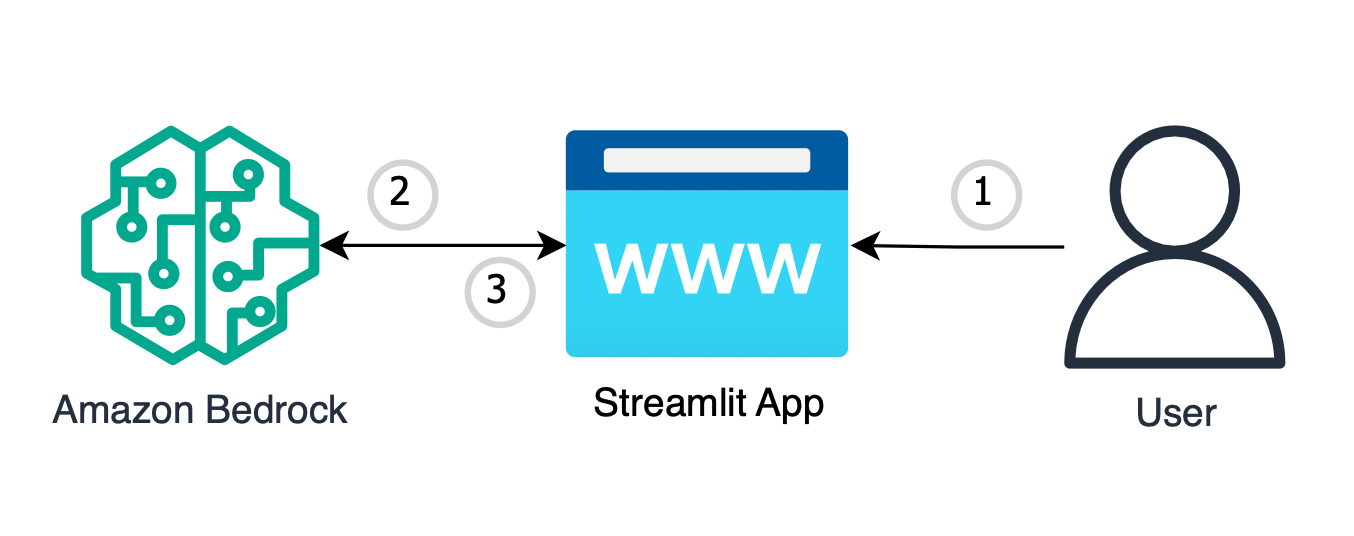
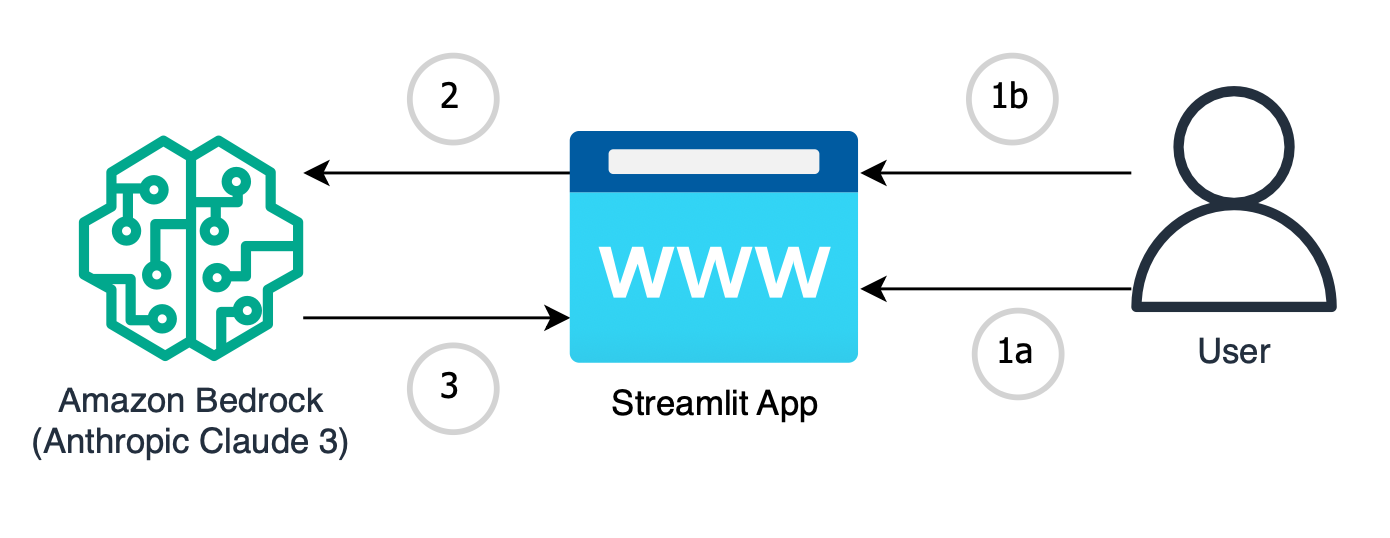
migrate image analysis to boto3 from langchain

diff --git a/amazon-bedrock-claude3-image-analysis-poc/app.py b/amazon-bedrock-claude3-image-analysis-poc/app.py
@@ -1,39 +1,51 @@
 import streamlit as st
 from pathlib import Path
 import os
-import image_analysis as helper
-import time
+from dotenv import load_dotenv
+from analyze_images import analyze_image
 
-save_folder="./images"
-
+# load environment variables
+load_dotenv()
 # title of the streamlit app
-st.title(f""":rainbow[Image Analysis with Amazon Bedrock]""")
+st.title(f""":rainbow[Image Analysis with Amazon Bedrock and Anthropic Claude 3]""")
+# directions on what can be done with this streamlit app
+st.header(f"""Directions to use this application:
+1. Upload an image, and click the "Analyze Image" button.
+2. Optionally, input a JSON spec to control image analysis prompt and return to specific attributes
 
-# default container that houses the document upload field
+""", divider='rainbow')
+# default container that houses the image upload field
 with st.container():
     # header that is shown on the web UI
-    st.header('Single File Upload')
-    # the file upload field, the specific ui element that allows you to upload the file
-    File = st.file_uploader('Upload a file', type=["jpeg"], key="new")
-    # when a file is uploaded it saves the file to the directory, creates a path, and invokes the
-    # analyze image function
-    if File is not None:
-        # determine the path to temporarily save the PDF file that was uploaded
-        #save_folder = os.getenv("save_folder")
-        save_folder = save_folder
-        # create a posix path of save_folder and the file name
-        save_path = Path(save_folder, File.name)
-        # write the uploaded PDF to the save_folder you specified
-        with open(save_path, mode='wb') as w:
-            w.write(File.getvalue())
-        # once the save path exists...
-        if save_path.exists():
-            # write a success message saying the file has been successfully saved
-            st.success(f'File {File.name} is successfully saved!')
-            st.balloons()
-            # creates a timer to time the length of the  task and starts the timer
-            #start = time.time()
-            # running the task, and outputting the results to the front end
-            st.write(helper.analyze_image(save_path))
-            # removing the image that was temporarily saved to perform the  task
-            os.remove(save_path)
+    st.subheader('Image File Upload:')
+    # the image upload field, the specific ui element that allows you to upload an image
+    # when an image is uploaded it saves the file to the directory, and creates a path to that image
+    File = st.file_uploader('Upload an Image', type=["png", "jpg", "jpeg"], key="new")
+    # this is the text area that allows you to insert a custom JSON spec to control image analysis
+    JSON_format = st.text_area("(optional)Insert your custom JSON spec to control image analysis")
+    # this is the text that is shown on the front end, and is used as a default prompt
+    text = f"Analyze this image in extreme detail. Please return a JSON response with the most relevant details of the image. If present, use this example JSON to categorize the image{JSON_format}"
+    # this is the button that triggers the invocation of the model, processing of the image and/or question
+    result = st.button("Analyze Image")
+    # if the button is pressed, the model is invoked, and the results are output to the front end
+    if result:
+        # if an image is uploaded, a file will be present, triggering the image_to_text function
+        if File is not None:
+            # the image is displayed to the front end for the user to see
+            st.image(File)
+            # determine the path to temporarily save the image file that was uploaded
+            save_folder = "./images"
+            # create a posix path of save_folder and the file name
+            save_path = Path(save_folder, File.name)
+            # write the uploaded image file to the save_folder you specified
+            with open(save_path, mode='wb') as w:
+                w.write(File.getvalue())
+            # once the save path exists...
+            if save_path.exists():
+                # write a success message saying the image has been successfully saved
+                st.success(f'Image {File.name} is successfully saved!')
+                # running the image to text task, and outputting the results to the front end
+                st.write(analyze_image(save_path, text))
+                # removing the image file that was temporarily saved to perform the question and answer task
+                os.remove(save_path)
+

diff --git a/amazon-bedrock-claude3-image-analysis-poc/analyze_images.py b/amazon-bedrock-claude3-image-analysis-poc/analyze_images.py
@@ -1,0 +1,96 @@
+import boto3
+import json
+from dotenv import load_dotenv
+import os
+import base64
+import io
+from PIL import Image
+
+# loading in variables from .env file
+load_dotenv()
+
+# instantiating the Bedrock client, and passing in the CLI profile
+boto3.setup_default_session(profile_name=os.getenv("profile_name"))
+bedrock = boto3.client('bedrock-runtime', 'us-west-2', endpoint_url='https://bedrock-runtime.us-west-2.amazonaws.com')
+
+
+def image_base64_encoder(image_name):
+    """
+    This function takes in a string that represent the path to the image that has been uploaded by the user and the function
+    is used to encode the image to base64. The base64 string is then returned.
+    :param image_name: This is the path to the image file that the user has uploaded.
+    :return: A base64 string of the image that was uploaded.
+    """
+    # opening the image file that was uploaded by the user
+    open_image = Image.open(image_name)
+    # creating a BytesIO object to store the image in memory
+    image_bytes = io.BytesIO()
+    # saving the image to the BytesIO object
+    open_image.save(image_bytes, format=open_image.format)
+    # converting the BytesIO object to a base64 string and returning it
+    image_bytes = image_bytes.getvalue()
+    image_base64 = base64.b64encode(image_bytes).decode('utf-8')
+    # getting the appropriate file type as claude 3 expects the file type to be presented
+    file_type = f"image/{open_image.format.lower()}"
+    # returning both the formatted file type string, along with the base64 encoded image
+    return file_type, image_base64
+
+
+def analyze_image(image_name, text) -> str:
+    """
+    This function is used to perform an image to text llm invocation against Claude 3. The prompts are configured so that a JSON object is returned by default.
+    :param image_name: This is the path to the image file that the user has uploaded.
+    :param text: This is the example JSON the user may have optionally provided
+    :return: A JSON response giving a detailed analysis of the image that was uploaded or answering a specific
+    question that the user asked along with the image.
+    """
+    # invoking the image_base64_encoder function to encode the image to base64 and get the file type string
+    file_type, image_base64 = image_base64_encoder(image_name)
+    # the system prompt is used as a default prompt, and is always passed into to the model
+    # TODO: Edit the system prompt based on your specific use case
+    system_prompt = """Describe every detail you can about this image, be extremely thorough and detail even the most minute aspects of the image. 
+    
+    If a more specific question is presented by the user, make sure to prioritize that answer.
+    """
+    # checking if the user inserted any text along with the image, if not, we set text to a default since claude expects
+    # text in the text block of the prompt.
+    if text == "":
+        text = "Use the system prompt"
+    # this is the primary prompt passed into Claude3 with the system prompt, user uploaded image in base64 and any
+    # text the user inserted
+    prompt = {
+        "anthropic_version": "bedrock-2023-05-31",
+        "max_tokens": 1000,
+        "temperature": 0.5,
+        "system": system_prompt,
+        "messages": [
+            {
+                "role": "user",
+                "content": [
+                    {
+                        "type": "image",
+                        "source": {
+                            "type": "base64",
+                            "media_type": file_type,
+                            "data": image_base64
+                        }
+                    },
+                    {
+                        "type": "text",
+                        "text": text
+                    }
+                ]
+            }
+        ]
+    }
+    # formatting the prompt as a json string
+    json_prompt = json.dumps(prompt)
+    # invoking Claude3, passing in our prompt
+    response = bedrock.invoke_model(body=json_prompt, modelId="anthropic.claude-3-sonnet-20240229-v1:0",
+                                    accept="application/json", contentType="application/json")
+    # getting the response from Claude3 and parsing it to return to the end user
+    response_body = json.loads(response.get('body').read())
+    # the final string returned to the end user
+    llm_output = response_body['content'][0]['text']
+    # returning the final string to the end user
+    return json.loads(llm_output)

diff --git a/amazon-bedrock-claude3-image-analysis-poc/README.md b/amazon-bedrock-claude3-image-analysis-poc/README.md
@@ -1,6 +1,6 @@
 # Amazon-Bedrock-Image-Analysis-POC
 
-This is sample code demonstrating the use of Amazon Bedrock and Multi-Modal Generative AI models from Anthropic to implement an image analysis use case. The application is constructed with a simple streamlit frontend where users can upload a jpeg, and get a description of the image.
+This is sample code demonstrating the use of Amazon Bedrock and Multi-Modal Generative AI models from Anthropic to implement an image analysis use case. The application is constructed with a simple streamlit frontend where users can upload a 1 page jpeg, png or PDF and get a description of the image.
 
 ![Alt text](images/demo1.gif)
 # **Goal of this Repo:**
@@ -15,7 +15,7 @@ The architecture and flow of the sample application will be:
 When a user interacts with the GenAI app, the flow is as follows:
 
 1. The user uploads an image for bedrock model to analyze. (app.py).
-2. The streamlit app, takes the image input, and invokes Amazon Bedrock to generate a description (image_analysis.py).
+2. The streamlit app, takes the image input, and invokes Amazon Bedrock to generate a description (analyze_images.py).
 3. The image created by Amazon Bedrock is returned and displayed on the streamlit app (app.py).
 
 # How to use this Repo:
@@ -34,8 +34,8 @@ git clone https://github.com/aws-samples/genai-quickstart-pocs.git
 ```
 
 After cloning the repo onto your local machine, open it up in your favorite code editor. The file structure of this repo is broken into 3 key files,
-the app.py file, the image_analysis.py file, and the requirements.txt. The app.py file houses the frontend application (a streamlit app).
-The image_analysis.py file houses the logic of the application, including the Amazon Bedrock API invocations to generate descriptions of an image.
+the app.py file, the analyze_images.py file, and the requirements.txt. The app.py file houses the frontend application (a streamlit app).
+The analyze_images.py file houses the logic of the application, including the Amazon Bedrock API invocations to generate descriptions of an image.
 The requirements.txt file contains all necessary dependencies for this sample application to work.
 
 ## Step 2:
@@ -74,7 +74,7 @@ profile_name=<AWS_CLI_PROFILE_NAME>
 
 Please ensure that your AWS CLI Profile has access to Amazon Bedrock!
 
-Depending on the region and model that you are planning to use with Amazon Bedrock (please note that only a few models can analyze images), you may need to reconfigure model params in the image_analysis file:
+Depending on the region and model that you are planning to use with Amazon Bedrock (please note that only a few models can analyze images), you may need to reconfigure model paramaters in the image_analysis file. You might also choose to customize your prompts if this POC is for an industry-specific use-case analyzing a specific type of image:
 
 ```
 brclient = boto3.client('bedrock-runtime', 'us-east-1', endpoint_url='https://bedrock-runtime.us-east-1.amazonaws.com',config=config)
